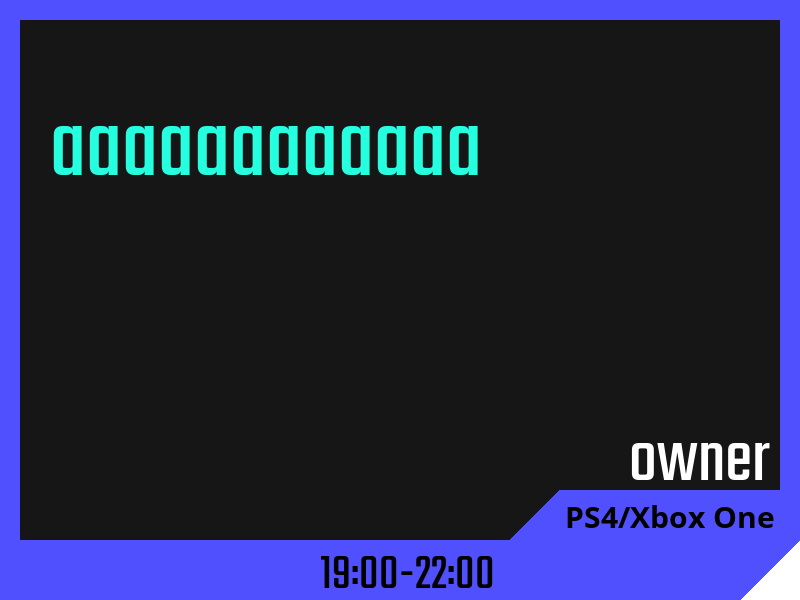
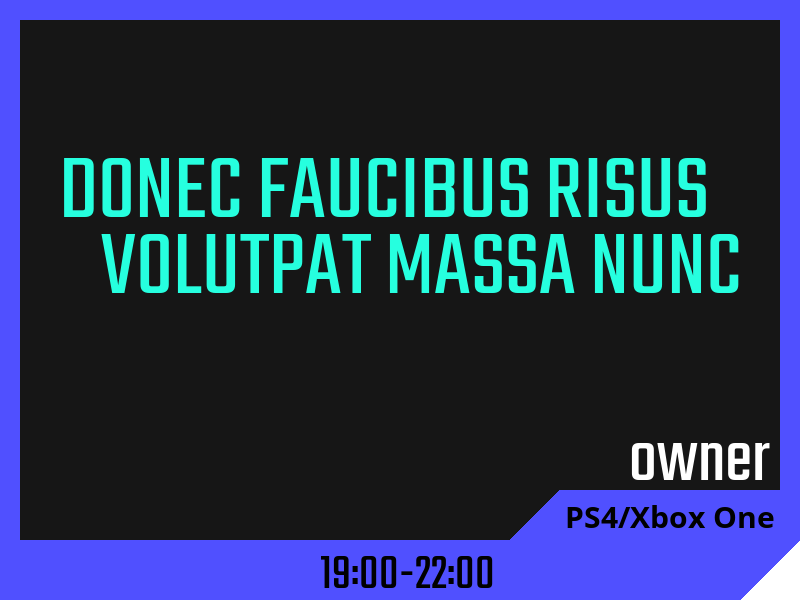
add title centering

Changed region(s): [[0.0625, 0.21, 0.9062, 0.36], [0.125, 0.39, 0.9375, 0.51]]

diff --git a/GAI/card.py b/GAI/card.py
@@ -1,4 +1,6 @@
+from http import server
 from PIL import Image,ImageDraw,ImageFont
+from util.imgutil import textbox
 
 #色選択
 title_color = (38,255,223)
@@ -8,11 +10,11 @@ red = (255,138,52)
 blue = (80,80,255)
 
 #フォント選択
-font_title = ImageFont.truetype("./font/Teko-Regular.ttf",100)
 font_owner = ImageFont.truetype("./font/Teko-Regular.ttf",75)
 font_time = ImageFont.truetype("./font/Teko-Regular.ttf",50)
 font_prev = ImageFont.truetype("./font/OpenSans-Bold.ttf",30)
 font_next = ImageFont.truetype("./font/OpenSans-Bold.ttf",25)
+font_title = ImageFont.truetype("./font/Teko-Regular.ttf",95)
 
 def generate(payload):
     #世代変更用コード,ベースを選択する
@@ -27,12 +29,21 @@ def generate(payload):
     server_name = payload["info"]["name"]
     owner = payload["owner"]
     time = "{}-{}".format(payload["time"]["start"],payload["time"]["end"])
-    server_name = server_name    
-
+    
+    #タイトルの整形
+    title,NoL = textbox().card_title(server_name)
+    print(title)
+    
     #文字列の描画
     draw.text((770,480),owner,font=font_owner,fill=text_color,anchor='rb')
-    draw.text((50,100),server_name,font=font_title,fill=title_color)
     draw.text((320,550),time,font=font_time,fill=black)
+
+    #センタリングの簡易実装
+    bbox = draw.multiline_textbbox((0, 0), title, font=font_title)
+    width = 400 - ((bbox[2] - bbox[0])//2)
+    height = 250 - ((bbox [3] - bbox[1])//2)
+    #タイトル描画
+    draw.text((width,height),title,font=font_title,fill=title_color)
     
     if(payload["Gen"]):
         draw.text((565,495),"PC/PS5/Xbox X,S",font=font_next,fill=black)

diff --git a/util/imgutil.py b/util/imgutil.py
@@ -1,0 +1,20 @@
+from PIL import Image
+from PIL import ImageFont
+from PIL import ImageDraw
+import math
+import textwrap
+
+class textbox:
+    def card_title(self,text):
+        text = text.upper()
+        list = textwrap.wrap(text, width=20)
+        print(list)
+        NoL = len(list)
+        #段落作成
+        formatted = ""
+        indent = "   "
+        for i in range(len(list)): 
+            formatted += list[i] + "\n" + indent
+            indent += indent
+        return formatted,NoL
+        

diff --git a/test.py b/test.py
@@ -3,7 +3,10 @@ from GAI import calendar_daily, calendar_weekly, card
 payload = {
     "owner":"owner",
     "info":{
-        "name" : "aaaaaaaaaaaa"
+        "name_" : "Suspendisse volutpat",
+        "name_" : "Nulla non arcu id tellus dignissim morbi",
+        "name_" : "Donec faucibus risus volutpat massa nunc",
+        "name_" : "Etiam egestas imperdiet orci eu posuere. Nulla sit amet nisi"
     },
     "Gen" : False,
     "time":{
